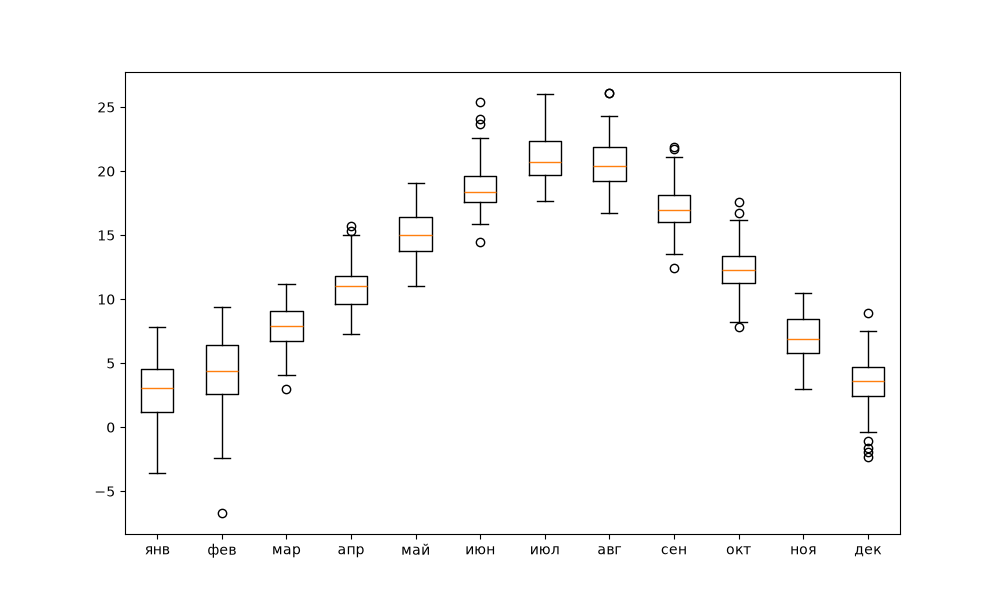
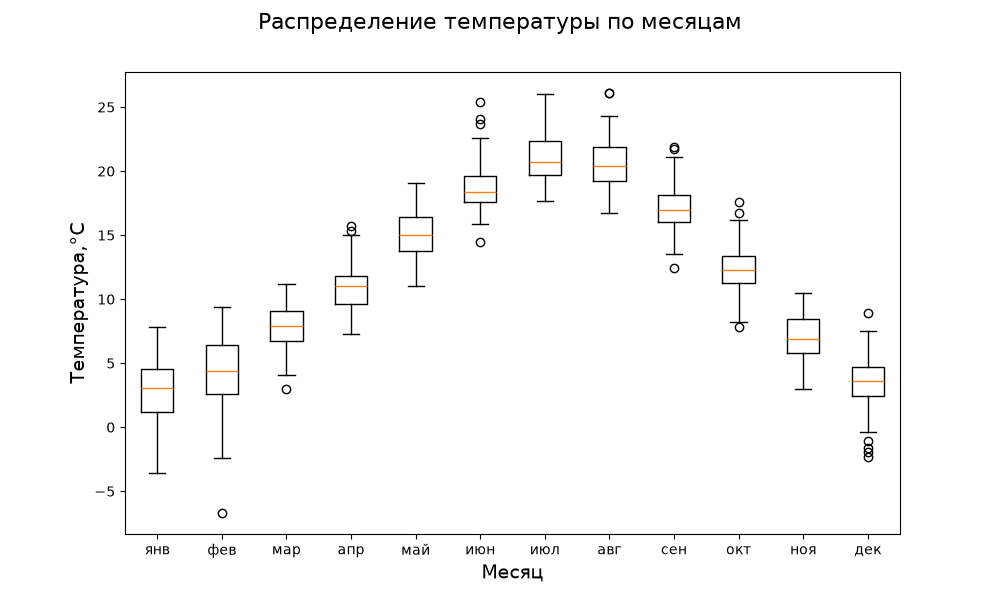
Названия блочной диаграммы Добавил названия осей в блочную диаграмму, удалил ненужные фйлы

diff --git a/Data_analytics/w1.py b/Data_analytics/w1.py
@@ -53,9 +53,12 @@ with open(file_name_param, 'w') as file:
     file.write(param.to_string())
 
 #Здесь рисуется блочная диаграмма
-# fig, ax = plt.subplots(figsize = (10, 6))
-# ax.boxplot([weather[c].dropna() for c in weather.columns], tick_labels = weather.columns)
-# fig.savefig('plot.png')
+fig, ax = plt.subplots(figsize = (10, 6))
+ax.boxplot([weather[c].dropna() for c in weather.columns], tick_labels = weather.columns)
+ax.set_xlabel("Месяц", fontsize=14)
+ax.set_ylabel("Температура,°C", fontsize=14)
+fig.suptitle("Распределение температуры по месяцам", fontsize=16)
+fig.savefig('plot.png')
 
 
 raw = []
